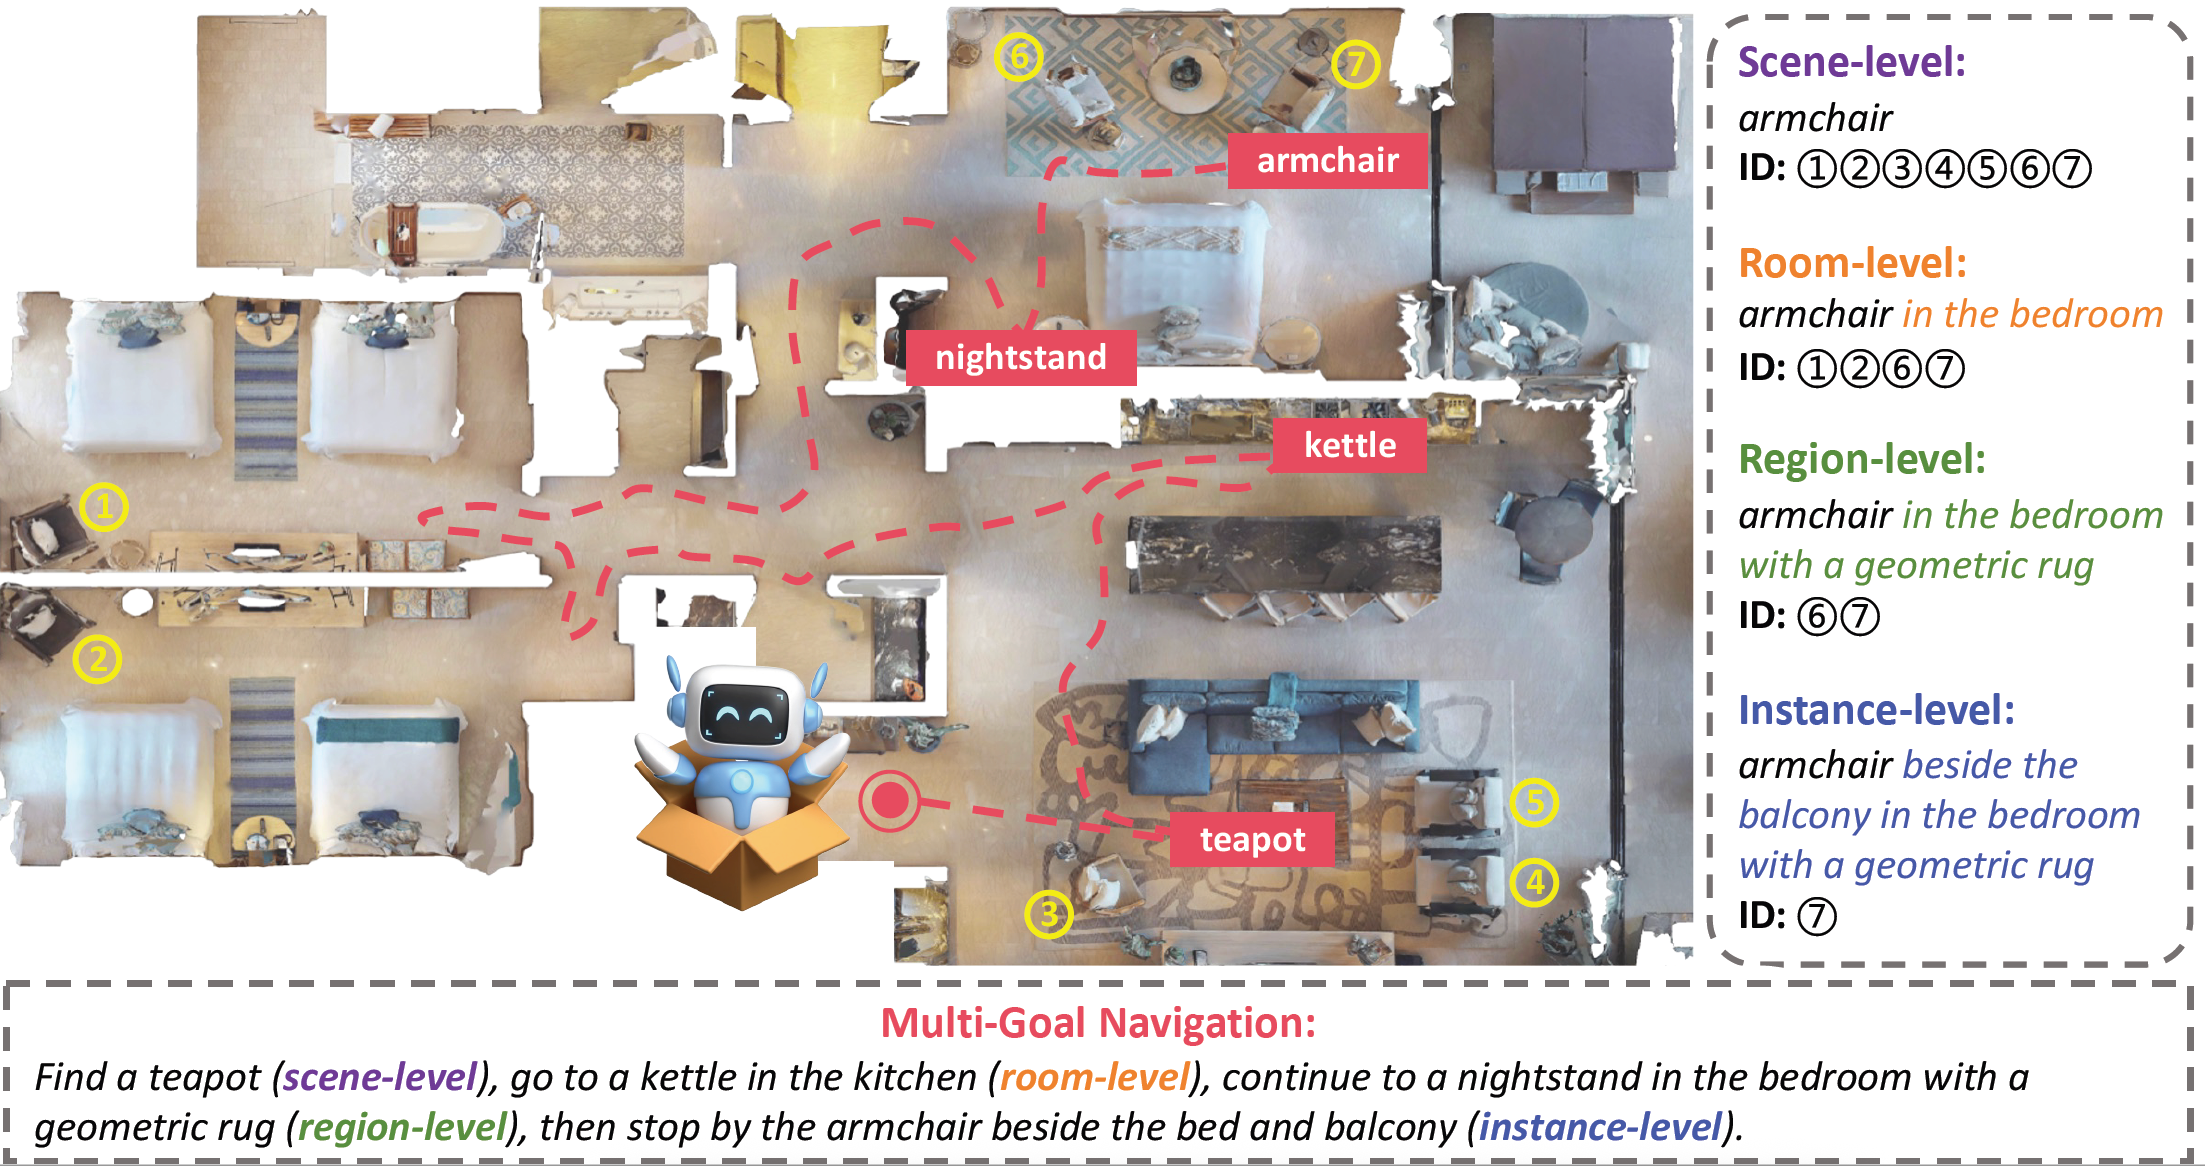
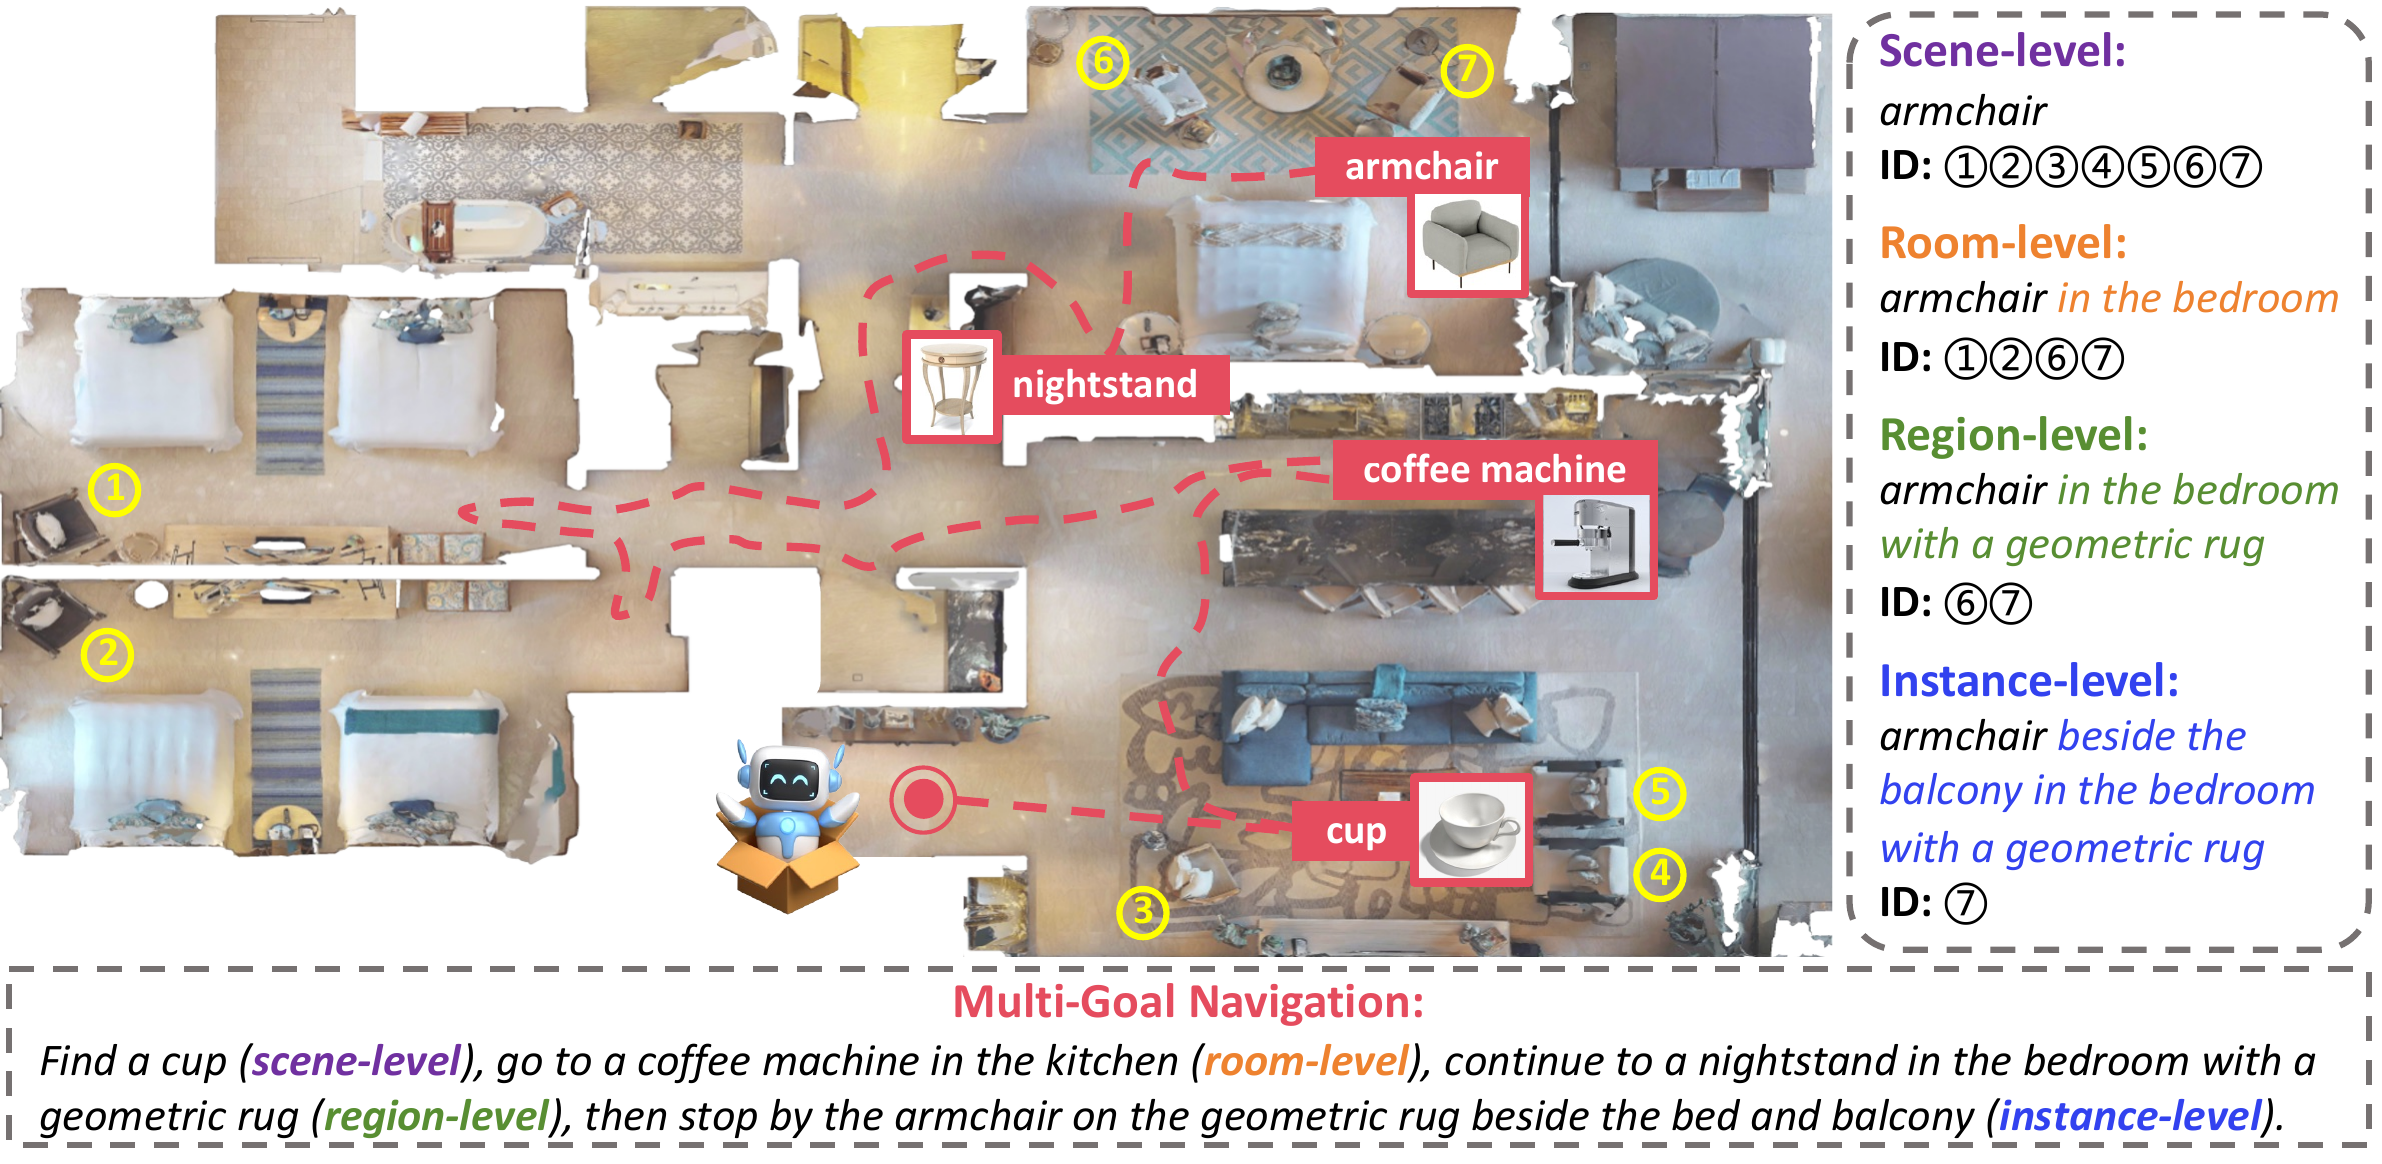
LangMap: use the camera-ready framework figure

diff --git a/LangMap/index.html b/LangMap/index.html
@@ -98,7 +98,7 @@
   <section class="hero teaser">
     <div class="container is-max-desktop">
       <div class="hero-body">
-        <img src="./static/images/hieranav_framework.webp" class="interpolation-image" width="1920" height="1015" alt="LangMap and HieraNav benchmark framework">
+        <img src="./static/images/hieranav_framework.webp" class="interpolation-image" width="1920" height="938" alt="LangMap and HieraNav benchmark framework">
       </div>
     </div>
   </section>
